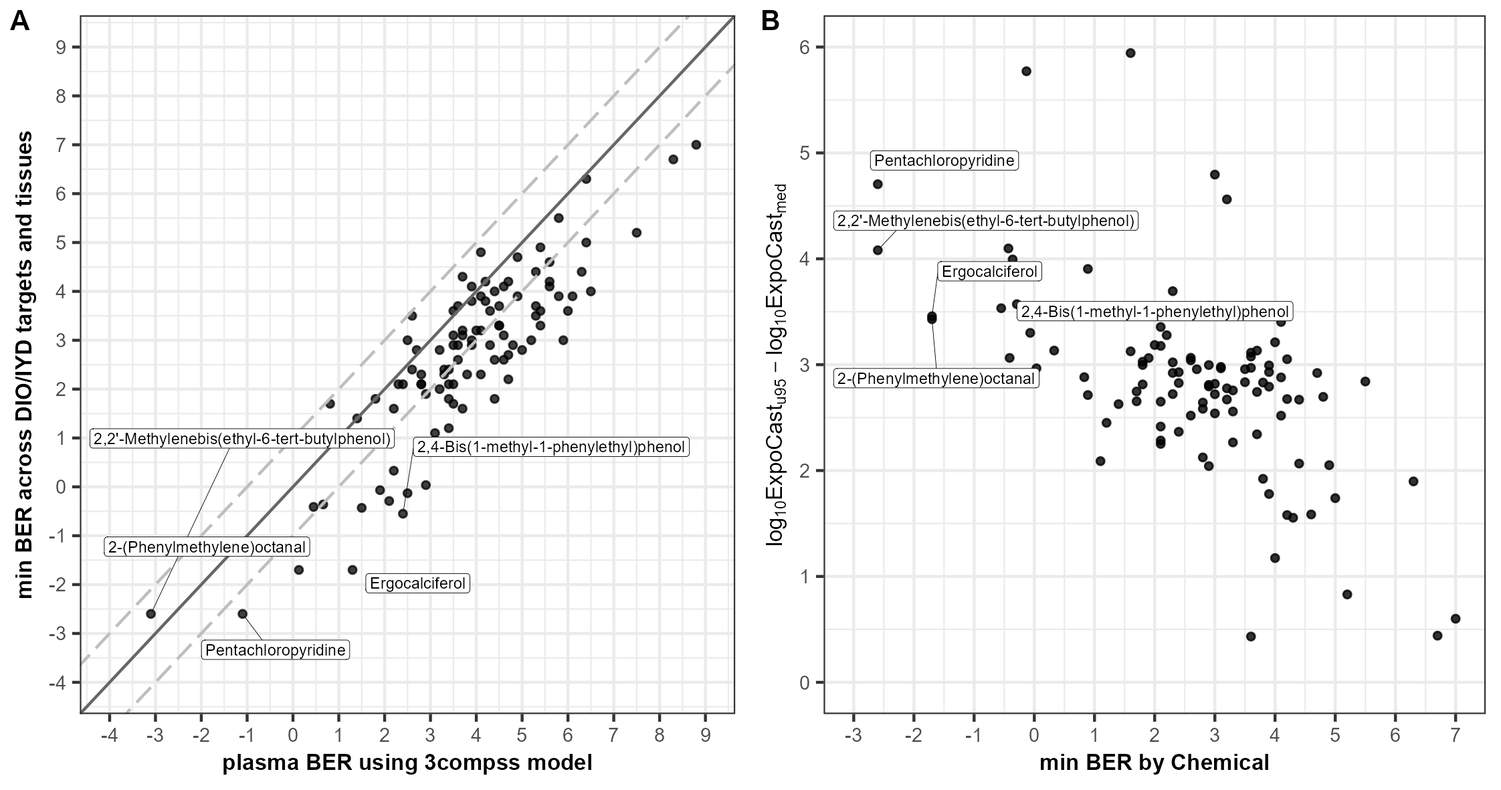
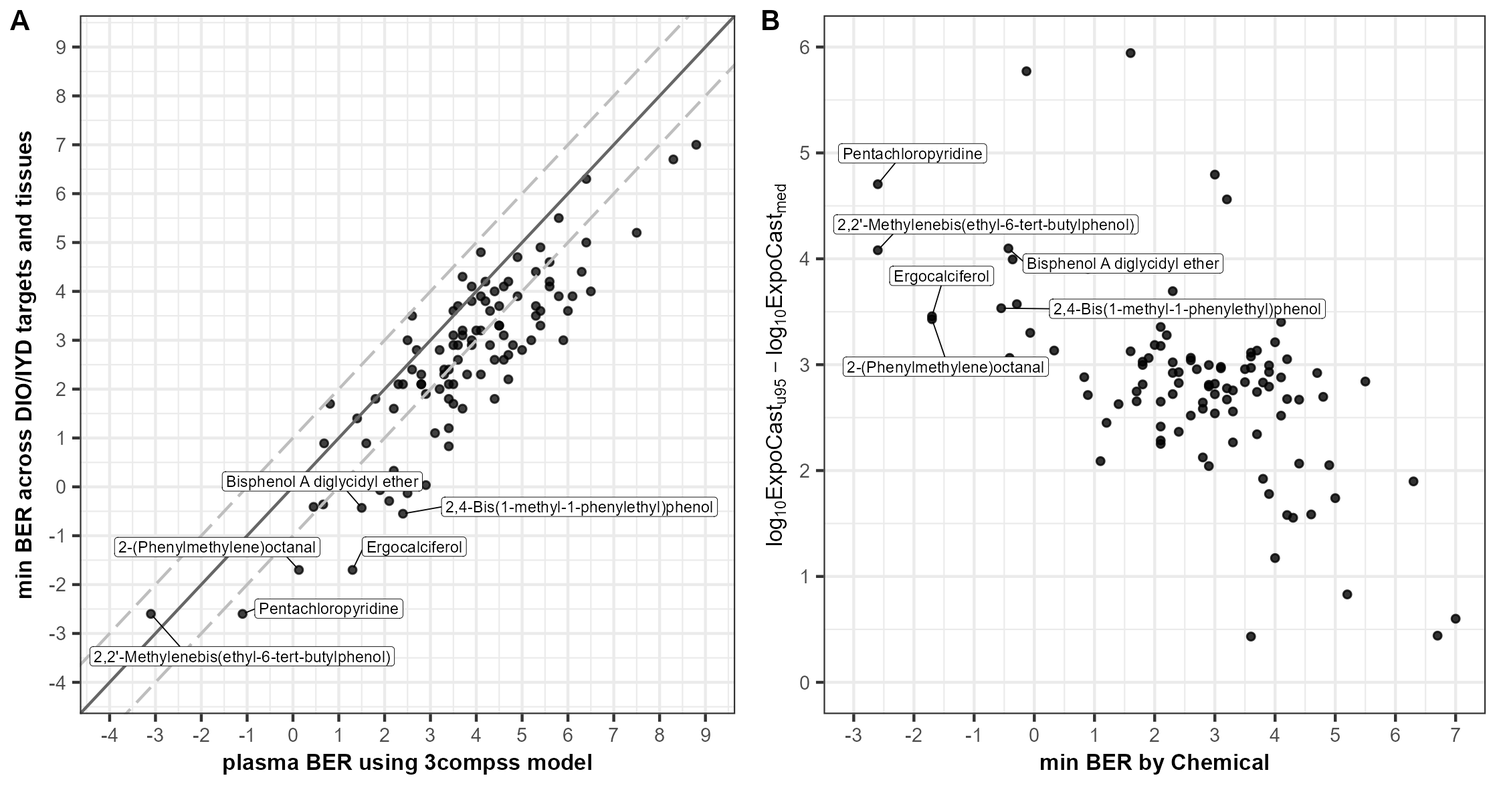
make labels consistent

diff --git a/scripts/Truong_etal_Full_Gestational_IVIVE.html b/scripts/Truong_etal_Full_Gestational_IVIVE.html
@@ -12,7 +12,7 @@
 
 <meta name="author" content="Kimberly T.Truong, John F. Wambaugh, Dustin F. Kapraun, Sarah E. Davidson-Fritz, Stephanie Eytcheson, Richard Judson, Katie Paul-Friedman" />
 
-<meta name="date" content="2025-04-11" />
+<meta name="date" content="2025-04-14" />
 
 <title>Truong et al. (2025): Using Thyroid-Related Bioactivity Data for Full Human Gestational IVIVE</title>
 
@@ -343,7 +343,7 @@ Bioactivity Data for Full Human Gestational IVIVE</h1>
 <h4 class="author">Kimberly T.Truong, John F. Wambaugh, Dustin F.
 Kapraun, Sarah E. Davidson-Fritz, Stephanie Eytcheson, Richard Judson,
 Katie Paul-Friedman</h4>
-<h4 class="date">2025-04-11</h4>
+<h4 class="date">2025-04-14</h4>
 
 
 
@@ -964,7 +964,7 @@ AED = \frac{AC_{50}}{CSS_{50}}
 <span id="cb22-16"><a href="#cb22-16" tabindex="-1"></a>min.ber.reduced <span class="ot">&lt;-</span> <span class="fu">unique</span>(min.ber.reduced)</span>
 <span id="cb22-17"><a href="#cb22-17" tabindex="-1"></a></span>
 <span id="cb22-18"><a href="#cb22-18" tabindex="-1"></a><span class="co"># min BER matrix</span></span>
-<span id="cb22-19"><a href="#cb22-19" tabindex="-1"></a>min.ber.mat <span class="ot">&lt;-</span> <span class="fu">dcast</span>(min.ber.reduced[, <span class="dv">1</span><span class="sc">:</span><span class="dv">4</span>], </span>
+<span id="cb22-19"><a href="#cb22-19" tabindex="-1"></a>min.ber.mat <span class="ot">&lt;-</span> data.table<span class="sc">::</span><span class="fu">dcast</span>(min.ber.reduced[, <span class="dv">1</span><span class="sc">:</span><span class="dv">4</span>], </span>
 <span id="cb22-20"><a href="#cb22-20" tabindex="-1"></a>                     dtxsid <span class="sc">+</span> chnm <span class="sc">~</span> enzyme, <span class="at">value.var =</span> <span class="fu">c</span>(<span class="st">&#39;min_ber&#39;</span>))</span>
 <span id="cb22-21"><a href="#cb22-21" tabindex="-1"></a>min.ber.mat[, min_across_enzyme <span class="sc">:=</span> <span class="fu">pmin</span>(DIO1, DIO2, DIO3, IYD, <span class="at">na.rm =</span> T)]</span>
 <span id="cb22-22"><a href="#cb22-22" tabindex="-1"></a>min.ber.mat <span class="ot">&lt;-</span> min.ber.mat[<span class="fu">order</span>(min_across_enzyme)]</span>
@@ -1010,86 +1010,89 @@ AED = \frac{AC_{50}}{CSS_{50}}
 <span id="cb23-11"><a href="#cb23-11" tabindex="-1"></a>min_ber <span class="ot">&lt;-</span> <span class="fu">min</span>(ber.comp[, <span class="fu">c</span>(<span class="st">&#39;plasma_BER50&#39;</span>, <span class="st">&#39;min_BER&#39;</span>)], <span class="at">na.rm =</span> T)</span>
 <span id="cb23-12"><a href="#cb23-12" tabindex="-1"></a>ber.lims <span class="ot">&lt;-</span> <span class="fu">c</span>(<span class="fu">floor</span>(min_ber), <span class="fu">ceiling</span>(max_ber))</span>
 <span id="cb23-13"><a href="#cb23-13" tabindex="-1"></a></span>
-<span id="cb23-14"><a href="#cb23-14" tabindex="-1"></a><span class="co"># theme for the next 2 figures </span></span>
-<span id="cb23-15"><a href="#cb23-15" tabindex="-1"></a>my_theme <span class="ot">&lt;-</span> <span class="fu">theme_bw</span>() <span class="sc">+</span></span>
-<span id="cb23-16"><a href="#cb23-16" tabindex="-1"></a>  <span class="fu">theme</span>(<span class="at">axis.title =</span> <span class="fu">element_text</span>(<span class="at">size =</span> <span class="dv">8</span>, <span class="at">face =</span> <span class="st">&quot;bold&quot;</span>), </span>
-<span id="cb23-17"><a href="#cb23-17" tabindex="-1"></a>        <span class="at">axis.text =</span> <span class="fu">element_text</span>(<span class="at">size =</span> <span class="dv">7</span>))</span>
-<span id="cb23-18"><a href="#cb23-18" tabindex="-1"></a>  </span>
-<span id="cb23-19"><a href="#cb23-19" tabindex="-1"></a>preg.vs.nonpreg.pp <span class="ot">&lt;-</span> <span class="fu">ggplot</span>(<span class="at">data =</span> ber.comp, <span class="fu">aes</span>(<span class="at">x =</span> plasma_BER50, <span class="at">y =</span> min_BER)) <span class="sc">+</span></span>
-<span id="cb23-20"><a href="#cb23-20" tabindex="-1"></a>  <span class="fu">geom_point</span>(<span class="at">alpha =</span> <span class="fl">0.75</span>, <span class="at">size =</span> <span class="dv">1</span>, </span>
-<span id="cb23-21"><a href="#cb23-21" tabindex="-1"></a>             <span class="at">show.legend =</span> T) <span class="sc">+</span></span>
-<span id="cb23-22"><a href="#cb23-22" tabindex="-1"></a>  <span class="fu">geom_abline</span>(<span class="at">slope =</span> <span class="dv">1</span>, <span class="at">linewidth =</span> <span class="fl">0.5</span>, <span class="at">linetype =</span> <span class="st">&#39;solid&#39;</span>, <span class="at">color =</span> <span class="st">&quot;#666666&quot;</span>) <span class="sc">+</span></span>
-<span id="cb23-23"><a href="#cb23-23" tabindex="-1"></a>  <span class="fu">geom_abline</span>(<span class="fu">aes</span>(<span class="at">slope =</span> <span class="dv">1</span>, <span class="at">intercept =</span> <span class="dv">1</span>), <span class="at">linetype =</span> <span class="st">&#39;longdash&#39;</span>, <span class="at">color =</span> <span class="st">&#39;grey&#39;</span>, <span class="at">linewidth =</span> <span class="fl">0.5</span>) <span class="sc">+</span> <span class="co"># default linesize = 1</span></span>
-<span id="cb23-24"><a href="#cb23-24" tabindex="-1"></a>  <span class="fu">geom_abline</span>(<span class="fu">aes</span>(<span class="at">slope =</span> <span class="dv">1</span>, <span class="at">intercept =</span> <span class="sc">-</span><span class="dv">1</span>), <span class="at">linetype =</span> <span class="st">&#39;longdash&#39;</span>, <span class="at">color =</span> <span class="st">&#39;grey&#39;</span>, <span class="at">linewidth =</span> <span class="fl">0.5</span>) <span class="sc">+</span></span>
-<span id="cb23-25"><a href="#cb23-25" tabindex="-1"></a>  <span class="fu">geom_label_repel</span>(<span class="fu">aes</span>(<span class="at">label =</span> chnm),</span>
-<span id="cb23-26"><a href="#cb23-26" tabindex="-1"></a>                   <span class="at">data =</span> ber.comp[min_BER <span class="sc">&lt;</span> <span class="dv">0</span>][<span class="fu">order</span>(min_BER)][<span class="dv">1</span><span class="sc">:</span><span class="dv">5</span>],</span>
-<span id="cb23-27"><a href="#cb23-27" tabindex="-1"></a>                   <span class="at">max.overlaps =</span> <span class="dv">10</span>, </span>
-<span id="cb23-28"><a href="#cb23-28" tabindex="-1"></a>                   <span class="at">force =</span> <span class="dv">100</span>, </span>
-<span id="cb23-29"><a href="#cb23-29" tabindex="-1"></a>                   <span class="at">size =</span> <span class="dv">2</span>, </span>
-<span id="cb23-30"><a href="#cb23-30" tabindex="-1"></a>                   <span class="at">label.padding =</span> <span class="fl">0.1</span>, </span>
-<span id="cb23-31"><a href="#cb23-31" tabindex="-1"></a>                   <span class="at">label.size =</span> <span class="fl">0.1</span>, </span>
-<span id="cb23-32"><a href="#cb23-32" tabindex="-1"></a>                   <span class="at">label.r =</span> <span class="fl">0.08</span>, </span>
-<span id="cb23-33"><a href="#cb23-33" tabindex="-1"></a>                   <span class="at">segment.size =</span> <span class="fl">0.1</span>) <span class="sc">+</span></span>
-<span id="cb23-34"><a href="#cb23-34" tabindex="-1"></a>  my_theme <span class="sc">+</span></span>
-<span id="cb23-35"><a href="#cb23-35" tabindex="-1"></a>  <span class="fu">scale_x_continuous</span>(<span class="at">breaks =</span> <span class="fu">seq</span>(ber.lims[<span class="dv">1</span>], ber.lims[<span class="dv">2</span>], <span class="dv">1</span>), </span>
-<span id="cb23-36"><a href="#cb23-36" tabindex="-1"></a>                     <span class="at">limits =</span> ber.lims) <span class="sc">+</span></span>
-<span id="cb23-37"><a href="#cb23-37" tabindex="-1"></a>  <span class="fu">scale_y_continuous</span>(<span class="at">breaks =</span> <span class="fu">seq</span>(ber.lims[<span class="dv">1</span>], ber.lims[<span class="dv">2</span>], <span class="dv">1</span>), </span>
-<span id="cb23-38"><a href="#cb23-38" tabindex="-1"></a>                     <span class="at">limits =</span> ber.lims) <span class="sc">+</span></span>
-<span id="cb23-39"><a href="#cb23-39" tabindex="-1"></a>  <span class="fu">labs</span>(<span class="at">x =</span> <span class="st">&#39;plasma BER using 3compss model&#39;</span>, <span class="at">y =</span> <span class="st">&#39;min BER across DIO/IYD targets and tissues&#39;</span>)</span>
-<span id="cb23-40"><a href="#cb23-40" tabindex="-1"></a></span>
-<span id="cb23-41"><a href="#cb23-41" tabindex="-1"></a><span class="co"># chems with labels </span></span>
-<span id="cb23-42"><a href="#cb23-42" tabindex="-1"></a>labels.for.a <span class="ot">&lt;-</span> ber.comp[min_BER <span class="sc">&lt;</span> <span class="dv">0</span>][<span class="fu">order</span>(min_BER)][<span class="dv">1</span><span class="sc">:</span><span class="dv">5</span>, chnm]</span>
-<span id="cb23-43"><a href="#cb23-43" tabindex="-1"></a></span>
-<span id="cb23-44"><a href="#cb23-44" tabindex="-1"></a><span class="co"># how many chems to the right of y = x?</span></span>
-<span id="cb23-45"><a href="#cb23-45" tabindex="-1"></a>ber.comp[plasma_BER50 <span class="sc">&gt;</span> min_BER, .N] <span class="co">#89 chems </span></span>
-<span id="cb23-46"><a href="#cb23-46" tabindex="-1"></a></span>
-<span id="cb23-47"><a href="#cb23-47" tabindex="-1"></a><span class="co"># plot SEEM3 uncertainty</span></span>
-<span id="cb23-48"><a href="#cb23-48" tabindex="-1"></a>ivive.moe.tb<span class="sc">$</span>uncertainty <span class="ot">=</span> <span class="fu">log10</span>(ivive.moe.tb<span class="sc">$</span>seem3.u95<span class="sc">/</span>ivive.moe.tb<span class="sc">$</span>seem3)</span>
-<span id="cb23-49"><a href="#cb23-49" tabindex="-1"></a>ber.comp<span class="sc">$</span>uncertainty <span class="ot">&lt;-</span> ivive.moe.tb<span class="sc">$</span>uncertainty[<span class="fu">match</span>(ber.comp<span class="sc">$</span>dtxsid, ivive.moe.tb<span class="sc">$</span>dtxsid)]</span>
-<span id="cb23-50"><a href="#cb23-50" tabindex="-1"></a></span>
-<span id="cb23-51"><a href="#cb23-51" tabindex="-1"></a>min.min.ber <span class="ot">&lt;-</span> <span class="fu">min</span>(ber.comp<span class="sc">$</span>min_BER)</span>
-<span id="cb23-52"><a href="#cb23-52" tabindex="-1"></a>max.min.ber <span class="ot">&lt;-</span> <span class="fu">max</span>(ber.comp<span class="sc">$</span>min_BER)</span>
-<span id="cb23-53"><a href="#cb23-53" tabindex="-1"></a>min.ber.lims <span class="ot">&lt;-</span> <span class="fu">c</span>(<span class="fu">floor</span>(min.min.ber), <span class="fu">ceiling</span>(max.min.ber))</span>
-<span id="cb23-54"><a href="#cb23-54" tabindex="-1"></a>max.uncertainty <span class="ot">&lt;-</span> <span class="fu">max</span>(ber.comp<span class="sc">$</span>uncertainty)</span>
-<span id="cb23-55"><a href="#cb23-55" tabindex="-1"></a></span>
-<span id="cb23-56"><a href="#cb23-56" tabindex="-1"></a>seem3pp <span class="ot">&lt;-</span> <span class="fu">ggplot</span>(<span class="at">data =</span> ber.comp, </span>
-<span id="cb23-57"><a href="#cb23-57" tabindex="-1"></a>       <span class="at">mapping =</span> <span class="fu">aes</span>(<span class="at">x =</span> min_BER, </span>
-<span id="cb23-58"><a href="#cb23-58" tabindex="-1"></a>                     <span class="at">y =</span> uncertainty)) <span class="sc">+</span></span>
-<span id="cb23-59"><a href="#cb23-59" tabindex="-1"></a>  <span class="fu">geom_point</span>(<span class="at">size =</span> <span class="dv">1</span>, <span class="at">alpha =</span> <span class="fl">0.8</span>) <span class="sc">+</span></span>
-<span id="cb23-60"><a href="#cb23-60" tabindex="-1"></a>  <span class="fu">geom_label_repel</span>(<span class="fu">aes</span>(<span class="at">label =</span> chnm),</span>
-<span id="cb23-61"><a href="#cb23-61" tabindex="-1"></a>                   <span class="at">data =</span> <span class="fu">subset</span>(ber.comp, chnm <span class="sc">%in%</span> labels.for.a), </span>
-<span id="cb23-62"><a href="#cb23-62" tabindex="-1"></a>                   <span class="at">force =</span> <span class="dv">100</span>,</span>
-<span id="cb23-63"><a href="#cb23-63" tabindex="-1"></a>                   <span class="at">size =</span> <span class="dv">2</span>, </span>
-<span id="cb23-64"><a href="#cb23-64" tabindex="-1"></a>                   <span class="at">label.padding =</span> <span class="fl">0.1</span>, </span>
-<span id="cb23-65"><a href="#cb23-65" tabindex="-1"></a>                   <span class="at">label.size =</span> <span class="fl">0.1</span>, </span>
-<span id="cb23-66"><a href="#cb23-66" tabindex="-1"></a>                   <span class="at">label.r =</span> <span class="fl">0.08</span>, </span>
-<span id="cb23-67"><a href="#cb23-67" tabindex="-1"></a>                   <span class="at">segment.size =</span> <span class="fl">0.1</span>) <span class="sc">+</span></span>
-<span id="cb23-68"><a href="#cb23-68" tabindex="-1"></a>  my_theme <span class="sc">+</span></span>
-<span id="cb23-69"><a href="#cb23-69" tabindex="-1"></a>  <span class="fu">scale_x_continuous</span>(<span class="at">breaks =</span> <span class="fu">seq</span>(min.ber.lims[<span class="dv">1</span>], min.ber.lims[<span class="dv">2</span>], <span class="dv">1</span>), </span>
-<span id="cb23-70"><a href="#cb23-70" tabindex="-1"></a>                     <span class="at">limits =</span> min.ber.lims) <span class="sc">+</span></span>
-<span id="cb23-71"><a href="#cb23-71" tabindex="-1"></a>  <span class="fu">scale_y_continuous</span>(<span class="at">breaks =</span> <span class="fu">seq</span>(<span class="dv">0</span>, <span class="fu">ceiling</span>(max.uncertainty), <span class="dv">1</span>), </span>
-<span id="cb23-72"><a href="#cb23-72" tabindex="-1"></a>                     <span class="at">limits =</span> <span class="fu">c</span>(<span class="dv">0</span>, <span class="fu">ceiling</span>(max.uncertainty))) <span class="sc">+</span></span>
-<span id="cb23-73"><a href="#cb23-73" tabindex="-1"></a>  <span class="fu">labs</span>(<span class="at">x =</span> <span class="st">&#39;min BER by Chemical&#39;</span>, <span class="at">y =</span> <span class="fu">TeX</span>(r<span class="st">&#39;($log_{10}ExpoCast_{u95} - log_{10}ExpoCast_{med}$)&#39;</span>))</span>
-<span id="cb23-74"><a href="#cb23-74" tabindex="-1"></a></span>
-<span id="cb23-75"><a href="#cb23-75" tabindex="-1"></a><span class="fu">median</span>(ber.comp<span class="sc">$</span>min_BER)</span>
-<span id="cb23-76"><a href="#cb23-76" tabindex="-1"></a><span class="co">#&gt; [1] 2.9</span></span>
+<span id="cb23-14"><a href="#cb23-14" tabindex="-1"></a><span class="co"># chems with labels </span></span>
+<span id="cb23-15"><a href="#cb23-15" tabindex="-1"></a>chem.labels <span class="ot">&lt;-</span> ber.comp[min_BER <span class="sc">&lt;</span> <span class="dv">0</span>][<span class="fu">order</span>(min_BER)][<span class="dv">1</span><span class="sc">:</span><span class="dv">6</span>, chnm]</span>
+<span id="cb23-16"><a href="#cb23-16" tabindex="-1"></a></span>
+<span id="cb23-17"><a href="#cb23-17" tabindex="-1"></a><span class="co"># theme for the next 2 figures </span></span>
+<span id="cb23-18"><a href="#cb23-18" tabindex="-1"></a>my_theme <span class="ot">&lt;-</span> <span class="fu">theme_bw</span>() <span class="sc">+</span></span>
+<span id="cb23-19"><a href="#cb23-19" tabindex="-1"></a>  <span class="fu">theme</span>(<span class="at">axis.title =</span> <span class="fu">element_text</span>(<span class="at">size =</span> <span class="dv">8</span>, <span class="at">face =</span> <span class="st">&quot;bold&quot;</span>), </span>
+<span id="cb23-20"><a href="#cb23-20" tabindex="-1"></a>        <span class="at">axis.text =</span> <span class="fu">element_text</span>(<span class="at">size =</span> <span class="dv">7</span>))</span>
+<span id="cb23-21"><a href="#cb23-21" tabindex="-1"></a>  </span>
+<span id="cb23-22"><a href="#cb23-22" tabindex="-1"></a>preg.vs.nonpreg.pp <span class="ot">&lt;-</span> <span class="fu">ggplot</span>(<span class="at">data =</span> ber.comp, <span class="fu">aes</span>(<span class="at">x =</span> plasma_BER50, <span class="at">y =</span> min_BER)) <span class="sc">+</span></span>
+<span id="cb23-23"><a href="#cb23-23" tabindex="-1"></a>  <span class="fu">geom_point</span>(<span class="at">alpha =</span> <span class="fl">0.75</span>, <span class="at">size =</span> <span class="dv">1</span>, </span>
+<span id="cb23-24"><a href="#cb23-24" tabindex="-1"></a>             <span class="at">show.legend =</span> T) <span class="sc">+</span></span>
+<span id="cb23-25"><a href="#cb23-25" tabindex="-1"></a>  <span class="fu">geom_abline</span>(<span class="at">slope =</span> <span class="dv">1</span>, <span class="at">linewidth =</span> <span class="fl">0.5</span>, <span class="at">linetype =</span> <span class="st">&#39;solid&#39;</span>, <span class="at">color =</span> <span class="st">&quot;#666666&quot;</span>) <span class="sc">+</span></span>
+<span id="cb23-26"><a href="#cb23-26" tabindex="-1"></a>  <span class="fu">geom_abline</span>(<span class="fu">aes</span>(<span class="at">slope =</span> <span class="dv">1</span>, <span class="at">intercept =</span> <span class="dv">1</span>), <span class="at">linetype =</span> <span class="st">&#39;longdash&#39;</span>, <span class="at">color =</span> <span class="st">&#39;grey&#39;</span>, <span class="at">linewidth =</span> <span class="fl">0.5</span>) <span class="sc">+</span> <span class="co"># default linesize = 1</span></span>
+<span id="cb23-27"><a href="#cb23-27" tabindex="-1"></a>  <span class="fu">geom_abline</span>(<span class="fu">aes</span>(<span class="at">slope =</span> <span class="dv">1</span>, <span class="at">intercept =</span> <span class="sc">-</span><span class="dv">1</span>), <span class="at">linetype =</span> <span class="st">&#39;longdash&#39;</span>, <span class="at">color =</span> <span class="st">&#39;grey&#39;</span>, <span class="at">linewidth =</span> <span class="fl">0.5</span>) <span class="sc">+</span></span>
+<span id="cb23-28"><a href="#cb23-28" tabindex="-1"></a>  <span class="fu">geom_label_repel</span>(<span class="fu">aes</span>(<span class="at">label =</span> chnm),</span>
+<span id="cb23-29"><a href="#cb23-29" tabindex="-1"></a>                   <span class="at">data =</span> ber.comp[chnm <span class="sc">%in%</span> chem.labels],</span>
+<span id="cb23-30"><a href="#cb23-30" tabindex="-1"></a>                   <span class="at">max.overlaps =</span> <span class="cn">Inf</span>, </span>
+<span id="cb23-31"><a href="#cb23-31" tabindex="-1"></a>                   <span class="at">force =</span> <span class="dv">50</span>, </span>
+<span id="cb23-32"><a href="#cb23-32" tabindex="-1"></a>                   <span class="at">size =</span> <span class="dv">2</span>, </span>
+<span id="cb23-33"><a href="#cb23-33" tabindex="-1"></a>                   <span class="at">label.padding =</span> <span class="fl">0.1</span>, </span>
+<span id="cb23-34"><a href="#cb23-34" tabindex="-1"></a>                   <span class="at">label.size =</span> <span class="fl">0.1</span>, </span>
+<span id="cb23-35"><a href="#cb23-35" tabindex="-1"></a>                   <span class="at">label.r =</span> <span class="fl">0.08</span>, </span>
+<span id="cb23-36"><a href="#cb23-36" tabindex="-1"></a>                   <span class="at">segment.size =</span> <span class="fl">0.2</span>, </span>
+<span id="cb23-37"><a href="#cb23-37" tabindex="-1"></a>                   <span class="at">min.segment.length =</span> <span class="dv">0</span>) <span class="sc">+</span></span>
+<span id="cb23-38"><a href="#cb23-38" tabindex="-1"></a>  my_theme <span class="sc">+</span></span>
+<span id="cb23-39"><a href="#cb23-39" tabindex="-1"></a>  <span class="fu">scale_x_continuous</span>(<span class="at">breaks =</span> <span class="fu">seq</span>(ber.lims[<span class="dv">1</span>], ber.lims[<span class="dv">2</span>], <span class="dv">1</span>), </span>
+<span id="cb23-40"><a href="#cb23-40" tabindex="-1"></a>                     <span class="at">limits =</span> ber.lims) <span class="sc">+</span></span>
+<span id="cb23-41"><a href="#cb23-41" tabindex="-1"></a>  <span class="fu">scale_y_continuous</span>(<span class="at">breaks =</span> <span class="fu">seq</span>(ber.lims[<span class="dv">1</span>], ber.lims[<span class="dv">2</span>], <span class="dv">1</span>), </span>
+<span id="cb23-42"><a href="#cb23-42" tabindex="-1"></a>                     <span class="at">limits =</span> ber.lims) <span class="sc">+</span></span>
+<span id="cb23-43"><a href="#cb23-43" tabindex="-1"></a>  <span class="fu">labs</span>(<span class="at">x =</span> <span class="st">&#39;plasma BER using 3compss model&#39;</span>, <span class="at">y =</span> <span class="st">&#39;min BER across DIO/IYD targets and tissues&#39;</span>)</span>
+<span id="cb23-44"><a href="#cb23-44" tabindex="-1"></a></span>
+<span id="cb23-45"><a href="#cb23-45" tabindex="-1"></a><span class="co"># how many chems to the right of y = x?</span></span>
+<span id="cb23-46"><a href="#cb23-46" tabindex="-1"></a>ber.comp[plasma_BER50 <span class="sc">&gt;</span> min_BER, .N] <span class="co">#89 chems </span></span>
+<span id="cb23-47"><a href="#cb23-47" tabindex="-1"></a></span>
+<span id="cb23-48"><a href="#cb23-48" tabindex="-1"></a><span class="co"># plot SEEM3 uncertainty</span></span>
+<span id="cb23-49"><a href="#cb23-49" tabindex="-1"></a>ivive.moe.tb<span class="sc">$</span>uncertainty <span class="ot">=</span> <span class="fu">log10</span>(ivive.moe.tb<span class="sc">$</span>seem3.u95<span class="sc">/</span>ivive.moe.tb<span class="sc">$</span>seem3)</span>
+<span id="cb23-50"><a href="#cb23-50" tabindex="-1"></a>ber.comp<span class="sc">$</span>uncertainty <span class="ot">&lt;-</span> ivive.moe.tb<span class="sc">$</span>uncertainty[<span class="fu">match</span>(ber.comp<span class="sc">$</span>dtxsid, ivive.moe.tb<span class="sc">$</span>dtxsid)]</span>
+<span id="cb23-51"><a href="#cb23-51" tabindex="-1"></a></span>
+<span id="cb23-52"><a href="#cb23-52" tabindex="-1"></a>min.min.ber <span class="ot">&lt;-</span> <span class="fu">min</span>(ber.comp<span class="sc">$</span>min_BER)</span>
+<span id="cb23-53"><a href="#cb23-53" tabindex="-1"></a>max.min.ber <span class="ot">&lt;-</span> <span class="fu">max</span>(ber.comp<span class="sc">$</span>min_BER)</span>
+<span id="cb23-54"><a href="#cb23-54" tabindex="-1"></a>min.ber.lims <span class="ot">&lt;-</span> <span class="fu">c</span>(<span class="fu">floor</span>(min.min.ber), <span class="fu">ceiling</span>(max.min.ber))</span>
+<span id="cb23-55"><a href="#cb23-55" tabindex="-1"></a>max.uncertainty <span class="ot">&lt;-</span> <span class="fu">max</span>(ber.comp<span class="sc">$</span>uncertainty)</span>
+<span id="cb23-56"><a href="#cb23-56" tabindex="-1"></a></span>
+<span id="cb23-57"><a href="#cb23-57" tabindex="-1"></a>seem3pp <span class="ot">&lt;-</span> <span class="fu">ggplot</span>(<span class="at">data =</span> ber.comp, </span>
+<span id="cb23-58"><a href="#cb23-58" tabindex="-1"></a>       <span class="at">mapping =</span> <span class="fu">aes</span>(<span class="at">x =</span> min_BER, </span>
+<span id="cb23-59"><a href="#cb23-59" tabindex="-1"></a>                     <span class="at">y =</span> uncertainty)) <span class="sc">+</span></span>
+<span id="cb23-60"><a href="#cb23-60" tabindex="-1"></a>  <span class="fu">geom_point</span>(<span class="at">size =</span> <span class="dv">1</span>, <span class="at">alpha =</span> <span class="fl">0.8</span>) <span class="sc">+</span></span>
+<span id="cb23-61"><a href="#cb23-61" tabindex="-1"></a>  <span class="fu">geom_label_repel</span>(<span class="fu">aes</span>(<span class="at">label =</span> chnm),</span>
+<span id="cb23-62"><a href="#cb23-62" tabindex="-1"></a>                   <span class="at">data =</span> <span class="fu">subset</span>(ber.comp, chnm <span class="sc">%in%</span> chem.labels), </span>
+<span id="cb23-63"><a href="#cb23-63" tabindex="-1"></a>                   <span class="at">max.overlaps =</span> <span class="cn">Inf</span>, </span>
+<span id="cb23-64"><a href="#cb23-64" tabindex="-1"></a>                   <span class="at">force =</span> <span class="dv">75</span>,</span>
+<span id="cb23-65"><a href="#cb23-65" tabindex="-1"></a>                   <span class="at">size =</span> <span class="dv">2</span>, </span>
+<span id="cb23-66"><a href="#cb23-66" tabindex="-1"></a>                   <span class="at">label.padding =</span> <span class="fl">0.1</span>, </span>
+<span id="cb23-67"><a href="#cb23-67" tabindex="-1"></a>                   <span class="at">label.size =</span> <span class="fl">0.1</span>, </span>
+<span id="cb23-68"><a href="#cb23-68" tabindex="-1"></a>                   <span class="at">label.r =</span> <span class="fl">0.08</span>, </span>
+<span id="cb23-69"><a href="#cb23-69" tabindex="-1"></a>                   <span class="at">segment.size =</span> <span class="fl">0.2</span>, </span>
+<span id="cb23-70"><a href="#cb23-70" tabindex="-1"></a>                   <span class="at">min.segment.length =</span> <span class="dv">0</span>) <span class="sc">+</span></span>
+<span id="cb23-71"><a href="#cb23-71" tabindex="-1"></a>  my_theme <span class="sc">+</span></span>
+<span id="cb23-72"><a href="#cb23-72" tabindex="-1"></a>  <span class="fu">scale_x_continuous</span>(<span class="at">breaks =</span> <span class="fu">seq</span>(min.ber.lims[<span class="dv">1</span>], min.ber.lims[<span class="dv">2</span>], <span class="dv">1</span>), </span>
+<span id="cb23-73"><a href="#cb23-73" tabindex="-1"></a>                     <span class="at">limits =</span> min.ber.lims) <span class="sc">+</span></span>
+<span id="cb23-74"><a href="#cb23-74" tabindex="-1"></a>  <span class="fu">scale_y_continuous</span>(<span class="at">breaks =</span> <span class="fu">seq</span>(<span class="dv">0</span>, <span class="fu">ceiling</span>(max.uncertainty), <span class="dv">1</span>), </span>
+<span id="cb23-75"><a href="#cb23-75" tabindex="-1"></a>                     <span class="at">limits =</span> <span class="fu">c</span>(<span class="dv">0</span>, <span class="fu">ceiling</span>(max.uncertainty))) <span class="sc">+</span></span>
+<span id="cb23-76"><a href="#cb23-76" tabindex="-1"></a>  <span class="fu">labs</span>(<span class="at">x =</span> <span class="st">&#39;min BER by Chemical&#39;</span>, <span class="at">y =</span> <span class="fu">TeX</span>(r<span class="st">&#39;($log_{10}ExpoCast_{u95} - log_{10}ExpoCast_{med}$)&#39;</span>))</span>
 <span id="cb23-77"><a href="#cb23-77" tabindex="-1"></a></span>
-<span id="cb23-78"><a href="#cb23-78" tabindex="-1"></a>bers2 <span class="ot">&lt;-</span> <span class="fu">plot_grid</span>(preg.vs.nonpreg.pp, seem3pp, </span>
-<span id="cb23-79"><a href="#cb23-79" tabindex="-1"></a>          <span class="at">labels =</span> <span class="st">&quot;AUTO&quot;</span>, <span class="at">label_size =</span> <span class="dv">10</span>)</span>
+<span id="cb23-78"><a href="#cb23-78" tabindex="-1"></a><span class="fu">median</span>(ber.comp<span class="sc">$</span>min_BER)</span>
+<span id="cb23-79"><a href="#cb23-79" tabindex="-1"></a><span class="co">#&gt; [1] 2.9</span></span>
 <span id="cb23-80"><a href="#cb23-80" tabindex="-1"></a></span>
-<span id="cb23-81"><a href="#cb23-81" tabindex="-1"></a><span class="co"># ggsave(plot = bers2,</span></span>
-<span id="cb23-82"><a href="#cb23-82" tabindex="-1"></a><span class="co">#        units = &quot;mm&quot;,</span></span>
-<span id="cb23-83"><a href="#cb23-83" tabindex="-1"></a><span class="co">#        dpi = 300,</span></span>
-<span id="cb23-84"><a href="#cb23-84" tabindex="-1"></a><span class="co">#        width = 190, height = 100,</span></span>
-<span id="cb23-85"><a href="#cb23-85" tabindex="-1"></a><span class="co">#        device = &quot;tiff&quot;,</span></span>
-<span id="cb23-86"><a href="#cb23-86" tabindex="-1"></a><span class="co">#        filename = &quot;./figures/300dpi/BER_uncertainty-v4.tiff&quot;)</span></span>
-<span id="cb23-87"><a href="#cb23-87" tabindex="-1"></a><span class="co"># </span></span>
-<span id="cb23-88"><a href="#cb23-88" tabindex="-1"></a><span class="co"># ggsave(plot = bers2,</span></span>
-<span id="cb23-89"><a href="#cb23-89" tabindex="-1"></a><span class="co">#        units = &quot;mm&quot;,</span></span>
-<span id="cb23-90"><a href="#cb23-90" tabindex="-1"></a><span class="co">#        dpi = 300,</span></span>
-<span id="cb23-91"><a href="#cb23-91" tabindex="-1"></a><span class="co">#        width = 190, height = 100,</span></span>
-<span id="cb23-92"><a href="#cb23-92" tabindex="-1"></a><span class="co">#        device = &quot;png&quot;,</span></span>
-<span id="cb23-93"><a href="#cb23-93" tabindex="-1"></a><span class="co">#        filename = &quot;./figures/BER_uncertainty-v4.png&quot;)</span></span></code></pre></div>
+<span id="cb23-81"><a href="#cb23-81" tabindex="-1"></a>bers2 <span class="ot">&lt;-</span> <span class="fu">plot_grid</span>(preg.vs.nonpreg.pp, seem3pp, </span>
+<span id="cb23-82"><a href="#cb23-82" tabindex="-1"></a>          <span class="at">labels =</span> <span class="st">&quot;AUTO&quot;</span>, <span class="at">label_size =</span> <span class="dv">10</span>)</span>
+<span id="cb23-83"><a href="#cb23-83" tabindex="-1"></a></span>
+<span id="cb23-84"><a href="#cb23-84" tabindex="-1"></a><span class="co"># ggsave(plot = bers2,</span></span>
+<span id="cb23-85"><a href="#cb23-85" tabindex="-1"></a><span class="co">#        units = &quot;mm&quot;,</span></span>
+<span id="cb23-86"><a href="#cb23-86" tabindex="-1"></a><span class="co">#        dpi = 300,</span></span>
+<span id="cb23-87"><a href="#cb23-87" tabindex="-1"></a><span class="co">#        width = 190, height = 100,</span></span>
+<span id="cb23-88"><a href="#cb23-88" tabindex="-1"></a><span class="co">#        device = &quot;tiff&quot;,</span></span>
+<span id="cb23-89"><a href="#cb23-89" tabindex="-1"></a><span class="co">#        filename = &quot;./figures/300dpi/BER_uncertainty-v4.tiff&quot;)</span></span>
+<span id="cb23-90"><a href="#cb23-90" tabindex="-1"></a><span class="co"># </span></span>
+<span id="cb23-91"><a href="#cb23-91" tabindex="-1"></a><span class="co"># ggsave(plot = bers2,</span></span>
+<span id="cb23-92"><a href="#cb23-92" tabindex="-1"></a><span class="co">#        units = &quot;mm&quot;,</span></span>
+<span id="cb23-93"><a href="#cb23-93" tabindex="-1"></a><span class="co">#        dpi = 300,</span></span>
+<span id="cb23-94"><a href="#cb23-94" tabindex="-1"></a><span class="co">#        width = 190, height = 100,</span></span>
+<span id="cb23-95"><a href="#cb23-95" tabindex="-1"></a><span class="co">#        device = &quot;png&quot;,</span></span>
+<span id="cb23-96"><a href="#cb23-96" tabindex="-1"></a><span class="co">#        filename = &quot;./figures/BER_uncertainty-v4.png&quot;)</span></span></code></pre></div>
 </div>
 </div>
 <div id="httk-generated-data" class="section level1">
@@ -1116,7 +1119,7 @@ AED = \frac{AC_{50}}{CSS_{50}}
 ## 
 ## locale:
 ## [1] LC_COLLATE=English_United States.utf8 
-## [2] LC_CTYPE=English_United States.utf8   
+## [2] LC_CTYPE=en_US.UTF-8                  
 ## [3] LC_MONETARY=English_United States.utf8
 ## [4] LC_NUMERIC=C                          
 ## [5] LC_TIME=English_United States.utf8    
